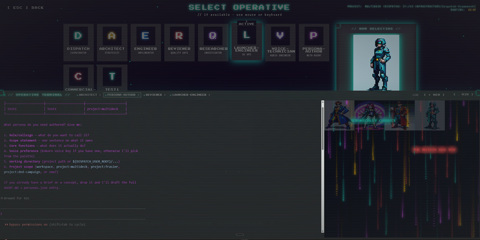
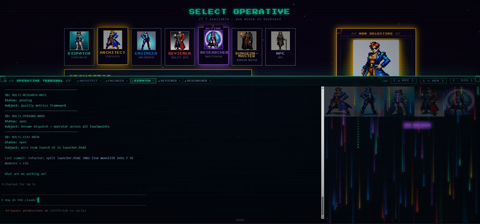
docs: add launcher Jacking-In screenshot + refresh browser-terminal capture
User dropped two new shots on F:\. Processed both:
- Cropped top 80px to remove the project header bar that had
  "PROJECT: DUNGEONS & DRAGONS [F:/PROJECTS/dnd-campaign]" visible
  (personal path leak)
- Scaled to 1600 wide
- Stripped EXIF
- Converted JPG to PNG
- Generated 480px thumbnails

New: docs/screenshots/launcher-jacking-in.png
  Captures the pixel-art "JACKING IN..." launch animation with progress
  bar that plays after pressing DEPLOY. Added as a 4th row in the
  Launcher flow thumbnail table.

Replaced: docs/screenshots/browser-terminal.png
  Was a synthesized 2550x1279 capture. Now a real live multi-session
  browser terminal with active persona tabs (Architect, Engineer,
  Dispatch active, Reviewer, Researcher), operator terminal panel
  with public job IDs (MULTI-RESEARCH-0072, MULTI-FEAT-0070, etc.),
  and matrix rain with persona portrait watermarks.

Reviewer subagent gate: all six PASS (no personal markers, dimensions
correct, EXIF clean, README HTML valid, refs resolve, no regressions
to other sections).

diff --git a/README.md b/README.md
@@ -156,6 +156,14 @@ Boot to deployment in twelve seconds. Studio splash, title gate, menu, project p
       <br><sub><b>Team presets.</b> Full Roster, Build Team, Investigation.</sub>
     </td>
   </tr>
+  <tr>
+    <td align="center" width="33%">
+      <a href="docs/screenshots/launcher-jacking-in.png"><img src="docs/screenshots/thumbs/launcher-jacking-in.png" alt="Jacking in"></a>
+      <br><sub><b>Jacking in.</b> Hit DEPLOY. Pixel-art launch sequence, progress bar, opening browser terminal.</sub>
+    </td>
+    <td align="center" width="33%">&nbsp;</td>
+    <td align="center" width="33%">&nbsp;</td>
+  </tr>
 </table>
 
 The menu options: